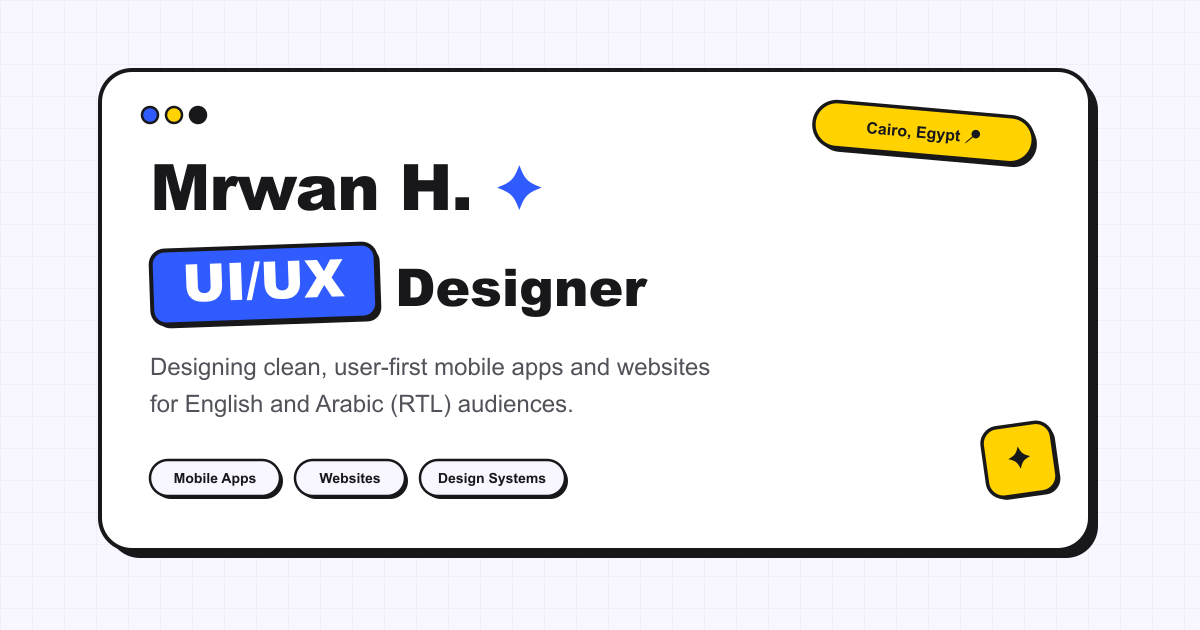
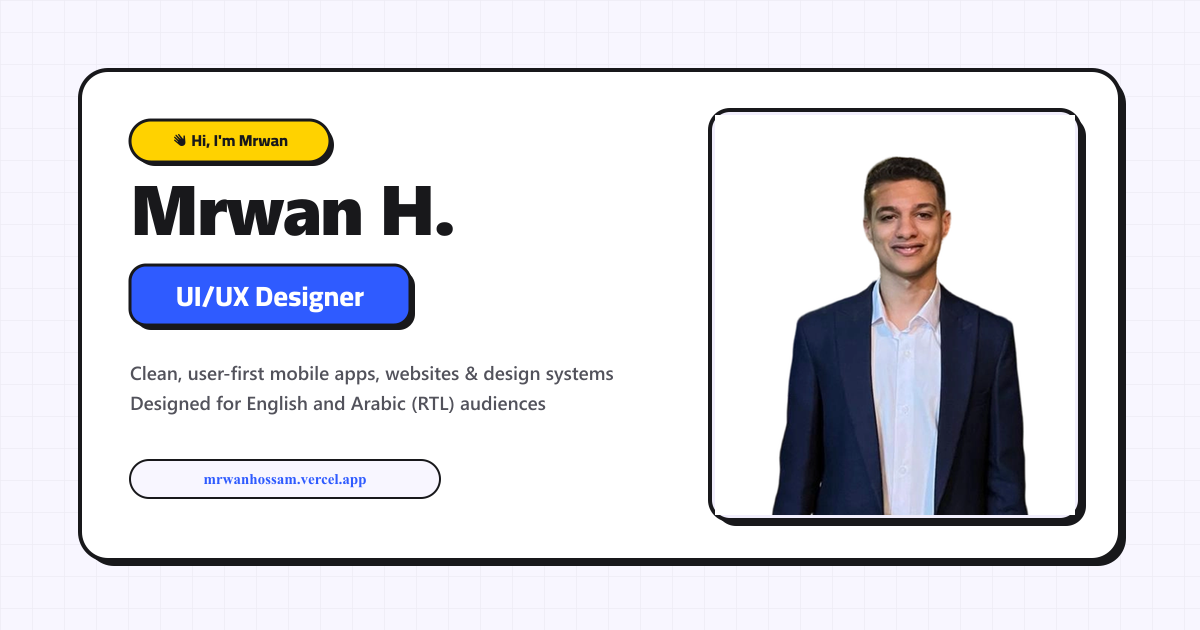
Update site domain to mrwanhossam.vercel.app and replace mockup & profile photos with high-res assets

Changed region(s): [[0.0617, 0.0905, 0.9558, 0.9048], [0.1233, 0.7238, 0.4933, 0.8143]]

diff --git a/index.html b/index.html
@@ -16,7 +16,7 @@
       content="UI/UX designer in Cairo designing mobile apps, websites and design systems for English and Arabic audiences. View my case studies and get in touch."
     />
     <meta name="author" content="Mrwan Hossam Hamdy" />
-    <link rel="canonical" href="https://mrwanhossam.design/" />
+    <link rel="canonical" href="https://mrwanhossam.vercel.app/" />
 
     <!-- Favicon & PWA Icons -->
     <link rel="icon" type="image/svg+xml" href="/favicon.svg" />
@@ -26,26 +26,26 @@
 
     <!-- Open Graph / Facebook -->
     <meta property="og:type" content="website" />
-    <meta property="og:url" content="https://mrwanhossam.design/" />
+    <meta property="og:url" content="https://mrwanhossam.vercel.app/" />
     <meta property="og:title" content="Mrwan H. | UI/UX Designer in Cairo" />
     <meta
       property="og:description"
       content="UI/UX designer in Cairo designing mobile apps, websites and design systems for English and Arabic audiences. View my case studies and get in touch."
     />
-    <meta property="og:image" content="https://mrwanhossam.design/og-image.png" />
+    <meta property="og:image" content="https://mrwanhossam.vercel.app/og-image.png" />
     <meta property="og:image:width" content="1200" />
     <meta property="og:image:height" content="630" />
     <meta property="og:site_name" content="Mrwan H. Portfolio" />
 
     <!-- Twitter Card -->
     <meta name="twitter:card" content="summary_large_image" />
-    <meta name="twitter:url" content="https://mrwanhossam.design/" />
+    <meta name="twitter:url" content="https://mrwanhossam.vercel.app/" />
     <meta name="twitter:title" content="Mrwan H. | UI/UX Designer in Cairo" />
     <meta
       name="twitter:description"
       content="UI/UX designer in Cairo designing mobile apps, websites and design systems for English and Arabic audiences. View my case studies and get in touch."
     />
-    <meta name="twitter:image" content="https://mrwanhossam.design/og-image.png" />
+    <meta name="twitter:image" content="https://mrwanhossam.vercel.app/og-image.png" />
 
     <!-- Google Fonts Preconnect & Optimized Loading with font-display: swap -->
     <link rel="preconnect" href="https://fonts.googleapis.com" />
@@ -68,8 +68,8 @@
         "name": "Mrwan Hossam Hamdy",
         "alternateName": "Mrwan H.",
         "jobTitle": "UI/UX Designer",
-        "url": "https://mrwanhossam.design",
-        "image": "https://mrwanhossam.design/profile.webp",
+        "url": "https://mrwanhossam.vercel.app",
+        "image": "https://mrwanhossam.vercel.app/profile.webp",
         "address": {
           "@type": "PostalAddress",
           "addressLocality": "Cairo",
@@ -92,7 +92,7 @@
     </script>
 
     <!-- Privacy-friendly analytics (Plausible) - Uncomment to activate
-    <script defer data-domain="mrwanhossam.design" src="https://plausible.io/js/script.js"></script>
+    <script defer data-domain="mrwanhossam.vercel.app" src="https://plausible.io/js/script.js"></script>
     -->
   </head>
   <body class="bg-page-bg text-dark antialiased min-h-screen selection:bg-secondary selection:text-stroke">

diff --git a/src/components/Projects.jsx b/src/components/Projects.jsx
@@ -41,7 +41,7 @@ function ProjectCard({ proj, idx }) {
             height="440"
             loading="lazy"
             alt={proj.alt}
-            className={`w-full h-full object-cover object-top transition-transform duration-300 ease-out group-hover:scale-105 ${
+            className={`w-full h-full object-cover object-center transition-transform duration-300 ease-out group-hover:scale-105 ${
               cardInView ? 'reveal-thumb-scale' : 'scale-105'
             }`}
             onError={(e) => {

diff --git a/src/config.ts b/src/config.ts
@@ -4,7 +4,7 @@
  */
 
 // Production domain URL (used for canonical links, OpenGraph, sitemap, etc.)
-export const SITE_URL = 'https://mrwanhossam.design';
+export const SITE_URL = 'https://mrwanhossam.vercel.app';
 
 // Contact & Social Links
 export const EMAIL = 'mrwanhossam605@gmail.com';
